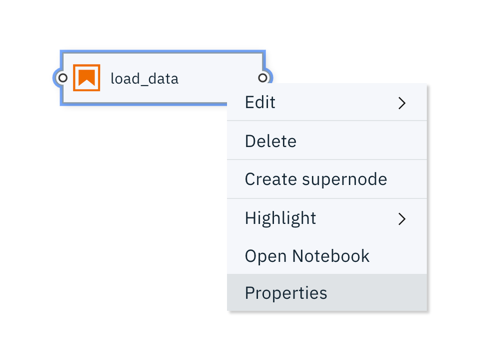
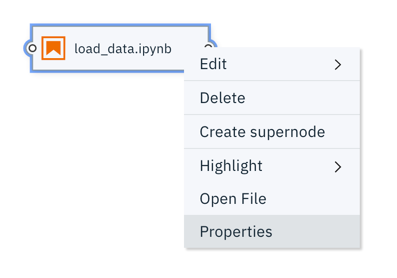
update hello world kubeflows pipelines example

diff --git a/pipelines/hello_world_kubeflow_pipelines/load_data.py b/pipelines/hello_world_kubeflow_pipelines/load_data.py
@@ -1,0 +1,51 @@
+#
+# Copyright 2020 IBM Corporation
+#
+# Licensed under the Apache License, Version 2.0 (the "License");
+# you may not use this file except in compliance with the License.
+# You may obtain a copy of the License at
+#
+# http://www.apache.org/licenses/LICENSE-2.0
+#
+# Unless required by applicable law or agreed to in writing, software
+# distributed under the License is distributed on an "AS IS" BASIS,
+# WITHOUT WARRANTIES OR CONDITIONS OF ANY KIND, either express or implied.
+# See the License for the specific language governing permissions and
+# limitations under the License.
+#
+import os
+from pathlib import Path
+import requests
+import tarfile
+from urllib.parse import urlparse
+
+
+if os.environ.get('DATASET_URL') is None:
+    raise RuntimeError('Cannot run script. Required environment variable DATASET_URL is not defined.')
+    
+data_file = os.environ['DATASET_URL']
+
+data_dir_name = 'data'
+
+print('Downloading data file {} ...'.format(data_file))
+r = requests.get(data_file)
+if r.status_code != 200:
+    raise RuntimeError('Could not fetch {}: HTTP status code {}'.format(data_file, r.status_code))
+else:
+    # extract data set file name from URL 
+    data_file_name = Path((urlparse(data_file).path)).name
+    # create the directory where the downloaded file will be stored
+    data_dir = Path(data_dir_name)    
+    data_dir.mkdir(parents=True, exist_ok=True)
+    downloaded_data_file = data_dir / data_file_name
+
+    print('Saving downloaded file "{}" as ...'.format(data_file_name))
+    with open(downloaded_data_file, 'wb') as downloaded_file:
+        downloaded_file.write(r.content)
+    
+    if r.headers['content-type'] == 'application/x-tar':
+        print('Extracting downloaded file in directory "{}" ...'.format(data_dir))
+        with tarfile.open(downloaded_data_file, 'r') as tar:
+            tar.extractall(data_dir)
+        print('Removing downloaded file ...')
+        downloaded_data_file.unlink()

diff --git a/pipelines/hello_world_kubeflow_pipelines/README.md b/pipelines/hello_world_kubeflow_pipelines/README.md
@@ -1,14 +1,14 @@
-## Getting started with notebook pipelines
+## Getting started with AI workflow pipelines
 
-A notebook pipeline comprises of notebook nodes that are connected with each other. While pipelines can be used to run any kinds of notebooks, they are commonly used to implement machine learning workflows.
+A workflow pipeline comprises of notebook nodes or Python script nodes that are connected with each other. 
 
-![The completed tutorial pipeline](doc/images/completed_tutorial_pipeline.png)
+![The completed tutorial pipeline](doc/images/tutorial_pipeline.png)
 
-Notebook pipelines can run locally in JupyterLab or remotely on Kubeflow Pipelines, a platform for building and deploying machine learning workflows based on Docker containers.
+Workflow pipelines can run locally in JupyterLab or remotely on Kubeflow Pipelines, a platform for building and deploying machine learning workflows based on Docker containers.
 
 ![Run a notebook pipeline locally or on Kubeflow Pipelines](doc/images/notebook_pipeline_local_and_remote.png)
 
-In this tutorial you will learn how to create a notebook pipeline and run it on Kubeflow Pipelines. Take a look at the [Hello World tutorial](https://github.com/elyra-ai/examples/tree/master/pipelines/hello_world) to learn how to run notebook pipelines locally in JupyterLab. 
+In this tutorial you will learn how to create a pipeline and run it on Kubeflow Pipelines. Take a look at the [Hello World tutorial](https://github.com/elyra-ai/examples/tree/master/pipelines/hello_world) to learn how to run notebook pipelines locally in JupyterLab. 
 
 ### Prerequisites
 
@@ -41,11 +41,11 @@ This tutorial uses the `hello_world_kubeflow_pipelines` sample from the https://
 
    ![Tutorial assets in File Browser](doc/images/cloned_examples.png)
    
-   The cloned repository includes a set of notebooks that download an open [weather data set from the Data Asset Exchange](https://developer.ibm.com/exchanges/data/all/jfk-weather-data/), cleanse the data, analyze the data, and perform time-series predictions. In this tutorial you create a pipeline that runs these notebooks in the appropriate order. 
+   The cloned repository includes a set of notebooks and a Python script that download an open [weather data set from the Data Asset Exchange](https://developer.ibm.com/exchanges/data/all/jfk-weather-data/), cleanse the data, analyze the data, and perform time-series predictions. In this tutorial you create a pipeline that runs these notebooks in the appropriate order. 
 
 You are ready to start the tutorial.
 
-### Creating a notebook pipeline
+### Creating a pipeline
 
 1. Open the _Launcher_ (File > New Launcher) if it is not already open.
 
@@ -63,48 +63,48 @@ You are ready to start the tutorial.
 
 Next, you'll add a notebook to the pipeline that downloads an open data set archive from public cloud storage.
 
-### Adding a notebook to the pipeline
+### Adding a notebook or Python script to the pipeline
 
-1. From the _File Browser_ pane drag the `load_data.ipynb` notebook onto the canvas.
+1. From the _File Browser_ pane drag the `load_data.ipynb` notebook onto the canvas. If you  like, you can add the `load_data.py` Python script instead. The script provides the same functionality as the notebook. The instructions below assume that you've added the notebook to the pipeline but the steps you need to complete are identical.
 
-   ![Add first notebook to pipeline](doc/images/add_first_node.png)
+   ![Add first node to pipeline](doc/images/add_first_node.png)
 
-1. Right click on the `load_data` notebook node to customize its execution properties.
+1. Right click on the `load_data` node to customize its execution properties.
 
-   ![Open notebook node properties](doc/images/open_node_properties.png)
+   ![Open node properties](doc/images/open_node_properties.png)
 
    The execution properties define the runtime environment, input artifacts (file dependencies and environment variables), and output files.
 
    ![Notebook node configuration](doc/images/node_configuration.png)
 
-1. Notebooks are executed in Docker containers. 
-   ![Notebooks are executed in Docker containers](doc/images/execution_environment.png)
+1. Notebooks or Python scripts are executed in Docker containers. 
+   ![Notebooks or Python scripts are executed in Docker containers](doc/images/execution_environment.png)
 
-   When you configure a notebook node you identify the _runtime image_, which will be used to instantiate the container. You can choose from a set of pre-configured public images or [provide your own](https://elyra.readthedocs.io/en/latest/user_guide/runtime-image-conf.html). If you provide your own image Python 3 and `curl` must be pre-installed. In this tutorial you'll use the stock `Pandas` image to run this notebook and all other notebooks.
+   When you configure a node you identify the _runtime image_, which will be used to instantiate the container. You can choose from a set of pre-configured public images or [provide your own](https://elyra.readthedocs.io/en/latest/user_guide/runtime-image-conf.html). If you provide your own image Python 3 and `curl` must be pre-installed. In this tutorial you'll use the stock `Pandas` image to run the notebook or script and all other notebooks.
 
    ![Configure runtime image](doc/images/configure_runtime_image.png)
 
-1. By default only the notebook is made available in the Docker container. If a notebook requires access to other files (like Python scripts) that are stored on your local machine you have to specify them as _file dependencies_. Files that have been declared as a dependency are uploaded to a cloud storage bucket together with the notebook and downloaded into the Docker image prior to notebook execution.
+1. By default only the notebook or Python script is made available in the Docker container. If a notebook or script requires access to other files that are stored on your local machine you have to specify them as _file dependencies_. Files that have been declared as a dependency are uploaded to a cloud storage bucket together with the notebook or Python script and downloaded into the Docker image prior to notebook execution.
 
    ![Input dependencies are uploaded to a Cloud storage bucket](doc/images/input_dependencies.png)
 
-   The `load_data` notebook does not have any file dependencies. Leave the input field empty.
+   The `load_data` notebook and Python script do not have any input file dependencies. Leave the input field empty.
 
    ![Configure input file dependencies](doc/images/configure_input_file_dependencies.png)
 
-1. If a notebook references `environment variables` you can declare them, if required. The `load_data` notebook you have added to the pipeline uses environment variable `DATASET_URL` to determine the name and location of a compressed data set archive, which needs to be downloaded and extracted. Assign environment variable `DATASET_URL` the value `https://dax-cdn.cdn.appdomain.cloud/dax-noaa-weather-data-jfk-airport/1.1.4/noaa-weather-data-jfk-airport.tar.gz`, which is a time-series data set containing weather information.
+1. If a notebook or Python script references `environment variables` you can declare them, if required. The `load_data` notebook or script you have added to the pipeline uses environment variable `DATASET_URL` to determine the name and location of a compressed data set archive, which needs to be downloaded and extracted. Assign environment variable `DATASET_URL` the value `https://dax-cdn.cdn.appdomain.cloud/dax-noaa-weather-data-jfk-airport/1.1.4/noaa-weather-data-jfk-airport.tar.gz`, which is a time-series data set containing weather information.
 
    ![Configure environment variables](doc/images/configure_environment_variables.png)
 
-1. Each notebook in a pipeline is executed in an isolated Docker container. These Docker containers do not have access to a shared local file system and persisted output artifacts (such as data files or trained model files) that a notebook might produce. To make output artifacts accessible to other notebooks you have to declare them as _output files_ in the node configuration of the notebook that produces them. Declared output artifacts are automatically uploaded to the pre-configured cloud object storage bucket after notebook processing has completed and can subsequently be accessed by other notebooks in the pipeline by referencing the declared name.
+1. Each node in a pipeline is executed in an isolated Docker container. These Docker containers do not have access to a shared local file system and persisted output artifacts (such as data files or trained model files) that a notebook or Python script might produce. To make output artifacts accessible to other notebooks or scripts you have to declare them as _output files_ in the configuration of the node that produces them. Declared output artifacts are automatically uploaded to the pre-configured cloud object storage bucket after node  processing has completed and can subsequently be accessed by other notebooks or scripts in the pipeline by referencing the declared name.
 
    ![Data exchange between notebooks in a pipeline via cloud storage](doc/images/data_flow.png)
     
-   The `load_data` notebook produces a data file named `data/noaa-weather-data-jfk-airport/jfk_weather.csv`, which we'll declare to make it accessible to the other notebooks in this pipeline.
+   The `load_data` node produces a data file named `data/noaa-weather-data-jfk-airport/jfk_weather.csv`, which we'll declare to make it accessible to the other nodes in this pipeline.
 
     ![Configure output files](doc/images/configure_output_files.png)
 
-    > It is considered good pratice to specify paths that are relative to the notebook location.
+    > It is considered good pratice to specify paths that are relative to the notebook or script location.
 
 1. Save the node configuration.
 
@@ -120,7 +120,7 @@ Next, you'll add a notebook to the pipeline that downloads an open data set arch
 
    ![Add node comment](doc/images/add_comment_text.png)
 
-Next, you'll add a second notebook to the pipeline and connect it with the first notebook in such a way that it is executed _after_ the first notebook. This notebook cleans the data in  `data/noaa-weather-data-jfk-airport/jfk_weather.csv`, which the `load_data` notebook produced, and stores the data in another CSV file.
+Next, you'll add a data pre-processing notebook to the pipeline and connect it with the first node in such a way that it is executed _after_ the first node. This notebook cleans the data in  `data/noaa-weather-data-jfk-airport/jfk_weather.csv`, which the `load_data` node produced, and stores the data in another CSV file.
 
 ### Adding a second notebook to the pipeline
 
@@ -179,7 +179,7 @@ A runtime environment configuration in Elyra contains connectivity information f
 
    ![Configure pipeline run](doc/images/run_pipeline_remotely.png)
 
-1. Start the pipeline run. The pipeline artifacts (notebooks and file input dependencies) are gathered, packaged, and uploaded to cloud storage. The pipeline is compiled and subsequently submitted to Kubeflow Pipelines for execution.
+1. Start the pipeline run. The pipeline artifacts (notebooks, Python scripts and file input dependencies) are gathered, packaged, and uploaded to cloud storage. The pipeline is compiled and subsequently submitted to Kubeflow Pipelines for execution.
 
    ![Pipeline run submitted confirmation message](doc/images/run_submission_confirmation.png)
 
@@ -187,7 +187,7 @@ A runtime environment configuration in Elyra contains connectivity information f
     - _Run details_: provides access to the Kubeflow Pipelines UI where you monitor the pipeline execution progress.
     - _Object storage_: provides access to the object storage where you access the input artifacts and output artifacts.
 
-### Monitoring a notebook pipeline run
+### Monitoring a pipeline run
 
 1. Open the _Run Details_ link. The _Experiments_ panel is displayed, depicting the in-progress execution graph for the pipeline. Only nodes that are currently executing or have already executed are displayed.
 
@@ -195,7 +195,7 @@ A runtime environment configuration in Elyra contains connectivity information f
 
 1. Select one of the displayed nodes. A side panel opens, displaying information about the pipeline.
 
-1. Open the _Logs_ tab to access the notebook node execution log file.
+1. Open the _Logs_ tab to access the node's execution log file.
 
    ![Monitor pipeline run progress](doc/images/review_node_execution_log.png)
 
@@ -205,7 +205,7 @@ A runtime environment configuration in Elyra contains connectivity information f
 
 ### Accessing the pipeline run outputs
 
-Notebook pipelines that execute on Kubeflow Pipelines store the pipeline run outputs (completed notebooks and declared output files) in the cloud storage bucket you've configured in the runtime configuration.
+Pipelines that execute on Kubeflow Pipelines store the pipeline run outputs (completed notebooks and Python scripts output and declared output files) in the cloud storage bucket you've configured in the runtime configuration.
 
 1. Open the object storage link and, if required, log in. 
 
@@ -215,10 +215,10 @@ Notebook pipelines that execute on Kubeflow Pipelines store the pipeline run out
 
    ![review run output artifacts](doc/images/inspect_object_storage_bucket_content.png)
 
-   If pipeline execution completed successfully the bucket contains for each notebook node the following artifacts:
-      - a `tar.gz` archive containing the input notebook and, if applicable, its declared file dependencies
-      - the completed notebook with it's populated output cells
-      - HTML version of the completed notebook
+   If pipeline execution completed successfully the bucket contains for each node the following artifacts:
+      - a `tar.gz` archive containing the input notebook or Python script and, if applicable, its declared file dependencies
+      - if the node is associated with a notebook, the artifacts include the completed notebook with it's populated output cells and an HTML version of the completed notebook
+      - if the node is associated with a Python script, the artifacts include the console output that the script produced
       - if applicable, the declared output files 
 
    For example, for the `load_data` notebook the following artifacts should be present:
@@ -233,10 +233,10 @@ Notebook pipelines that execute on Kubeflow Pipelines store the pipeline run out
 
 This concludes the _Hello World Kubeflow Pipelines_ tutorial. You've learned how to 
 - create a notebook pipeline
-- add a notebook and configure its execution properties
-- connect notebooks to define the execution dependencies
+- add a node and configure its execution properties
+- connect nodes to define the execution dependencies
 - create a Kubeflow Pipelines runtime configuration
-- run a notebook pipeline on Kubeflow Pipelines
+- run a pipeline on Kubeflow Pipelines
 - monitor the pipeline run progress in the Kubeflow Pipelines UI
 - access the pipeline run output on cloud storage
 
